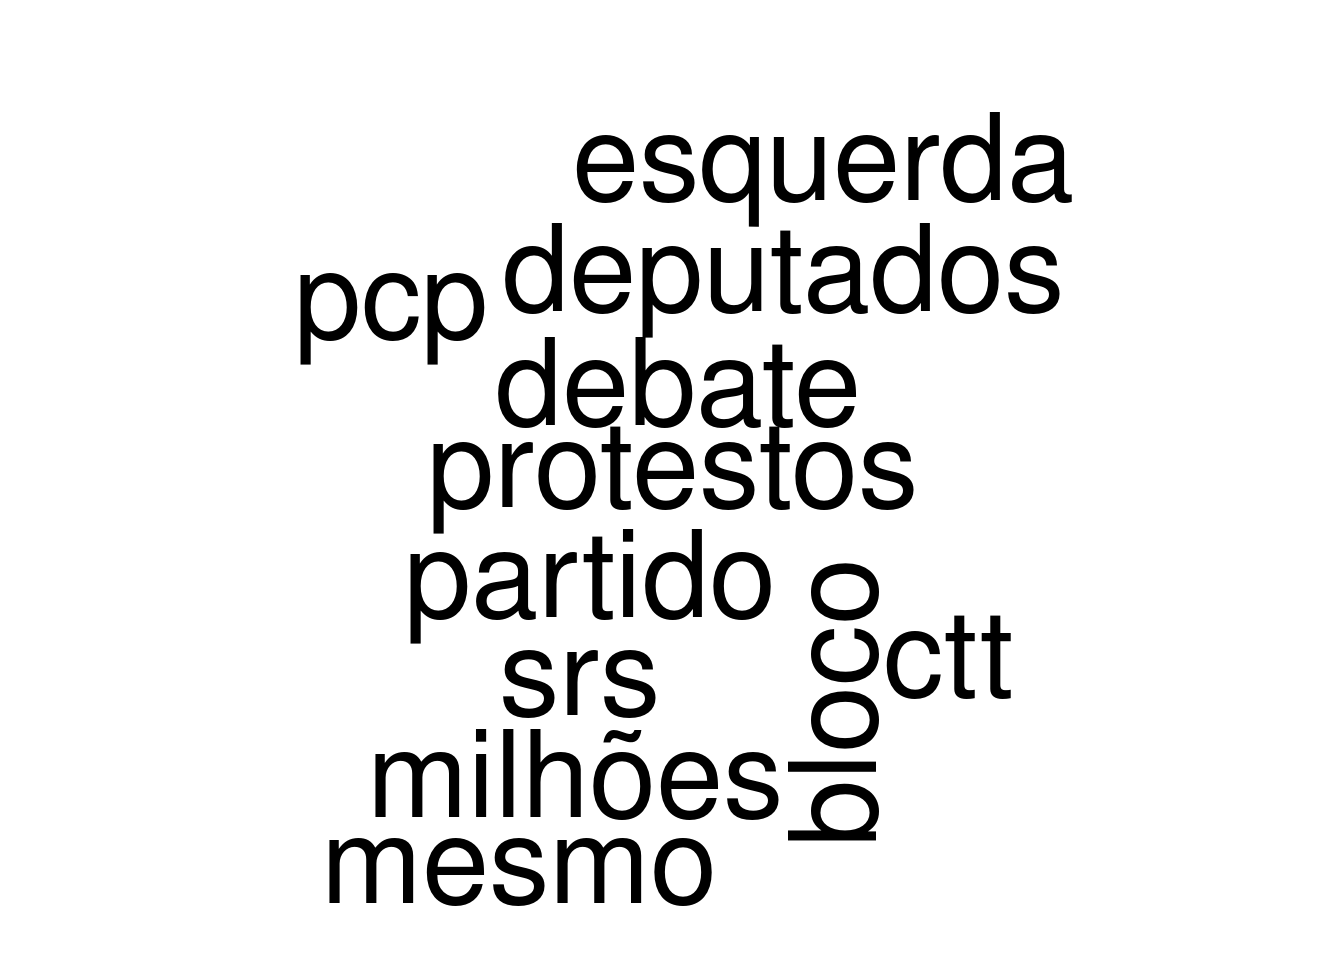
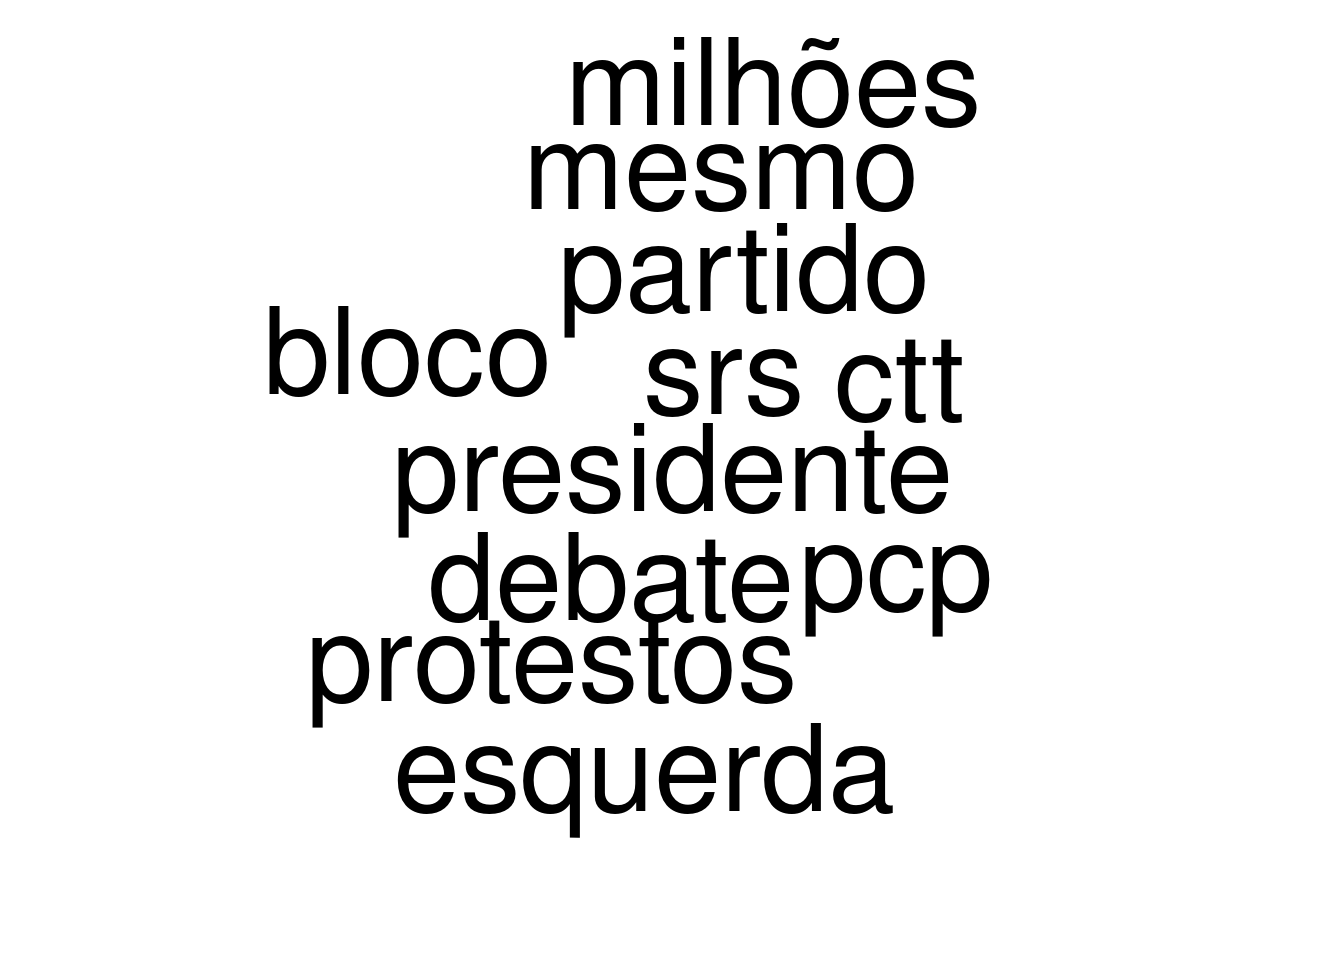
updated docs

Changed region(s): [[0.1875, 0.0312, 0.8125, 0.9688]]

diff --git a/docs/index.html b/docs/index.html
@@ -347,32 +347,32 @@ code span.wa { color: #60a0b0; font-weight: bold; font-style: italic; } /* Warni
 <a class="sourceLine" id="cb18-3" data-line-number="3"><span class="st">    </span>echarts4r<span class="op">::</span><span class="kw">e_charts</span>() <span class="op">%&gt;%</span><span class="st"> </span></a>
 <a class="sourceLine" id="cb18-4" data-line-number="4"><span class="st">    </span>echarts4r<span class="op">::</span><span class="kw">e_cloud</span>(word, freq, color, <span class="dt">shape =</span> <span class="st">&quot;circle&quot;</span>, <span class="dt">sizeRange =</span> <span class="kw">c</span>(<span class="dv">3</span>, <span class="dv">15</span>)) <span class="op">%&gt;%</span><span class="st"> </span></a>
 <a class="sourceLine" id="cb18-5" data-line-number="5"><span class="st">    </span>echarts4r<span class="op">::</span><span class="kw">e_title</span>(<span class="st">&quot;Wordcloud&quot;</span>, <span class="st">&quot;Random strings&quot;</span>)</a></code></pre></div>
-<div id="htmlwidget-c0e16800705c642e3382" style="width:100%;height:500px;" class="echarts4r html-widget"></div>
-<script type="application/json" data-for="htmlwidget-c0e16800705c642e3382">{"x":{"theme":"","tl":false,"draw":true,"renderer":"canvas","events":[],"buttons":[],"opts":{"series":[{"type":"wordCloud","data":[{"value":16.0799351307671,"name":"esquerda.e.o.pcp","textStyle":{"normal":{"color":"#F6EFA6"}}},{"value":15.6465856891365,"name":"socialista.para.fazer.o.mesmo","textStyle":{"normal":{"color":"#DD927A"}}},{"value":15.5192443726686,"name":"pcp.e.de.deputados","textStyle":{"normal":{"color":"#D67C6F"}}},{"value":15.0775450805969,"name":"bloco.de.esquerda","textStyle":{"normal":{"color":"#C0464D"}}},{"value":15.0774515014759,"name":"presidente","textStyle":{"normal":{"color":"#C0464D"}}},{"value":15.0759623968629,"name":"partido.socialista","textStyle":{"normal":{"color":"#C0464D"}}},{"value":15.0748359377689,"name":"mesmo.governo.socialista","textStyle":{"normal":{"color":"#C0454D"}}},{"value":15.074642059345,"name":"deputados","textStyle":{"normal":{"color":"#C0454D"}}},{"value":15.0718260437238,"name":"deputado.joão.cotrim.de.figueiredo","textStyle":{"normal":{"color":"#BF454D"}}},{"value":15.0716122544258,"name":"bloco","textStyle":{"normal":{"color":"#BF454C"}}},{"value":15.0716122544258,"name":"esquerda","textStyle":{"normal":{"color":"#BF454C"}}},{"value":15.0707271154457,"name":"ctt","textStyle":{"normal":{"color":"#BF454C"}}},{"value":15.0705569190084,"name":"protestos","textStyle":{"normal":{"color":"#BF454C"}}},{"value":15.0702078911475,"name":"pcp","textStyle":{"normal":{"color":"#BF454C"}}},{"value":15.0696226817531,"name":"partido","textStyle":{"normal":{"color":"#BF454C"}}},{"value":15.0686622537548,"name":"debate","textStyle":{"normal":{"color":"#BF454C"}}},{"value":15.0682339911465,"name":"mesmo","textStyle":{"normal":{"color":"#BF444C"}}},{"value":15.0666393050612,"name":"srs","textStyle":{"normal":{"color":"#BF444C"}}},{"value":15.0664701143982,"name":"milhões","textStyle":{"normal":{"color":"#BF444C"}}},{"value":15.0648551956363,"name":"joão.azevedo.castro","textStyle":{"normal":{"color":"#BF444C"}}}],"shape":"circle","sizeRange":[3,15]}],"title":[{"text":"Wordcloud","subtext":"Random strings"}]},"dispose":true},"evals":[],"jsHooks":[]}</script>
+<div id="htmlwidget-233aeeed1d04ea63dd73" style="width:100%;height:500px;" class="echarts4r html-widget"></div>
+<script type="application/json" data-for="htmlwidget-233aeeed1d04ea63dd73">{"x":{"theme":"","tl":false,"draw":true,"renderer":"canvas","events":[],"buttons":[],"opts":{"series":[{"type":"wordCloud","data":[{"value":16.0799351307671,"name":"esquerda.e.o.pcp","textStyle":{"normal":{"color":"#F6EFA6"}}},{"value":15.6465856891365,"name":"socialista.para.fazer.o.mesmo","textStyle":{"normal":{"color":"#DD927A"}}},{"value":15.5192443726686,"name":"pcp.e.de.deputados","textStyle":{"normal":{"color":"#D67C6F"}}},{"value":15.0775450805969,"name":"bloco.de.esquerda","textStyle":{"normal":{"color":"#C0464D"}}},{"value":15.0774515014759,"name":"presidente","textStyle":{"normal":{"color":"#C0464D"}}},{"value":15.0759623968629,"name":"partido.socialista","textStyle":{"normal":{"color":"#C0464D"}}},{"value":15.0748359377689,"name":"mesmo.governo.socialista","textStyle":{"normal":{"color":"#C0454D"}}},{"value":15.074642059345,"name":"deputados","textStyle":{"normal":{"color":"#C0454D"}}},{"value":15.0718260437238,"name":"deputado.joão.cotrim.de.figueiredo","textStyle":{"normal":{"color":"#BF454D"}}},{"value":15.0716122544258,"name":"bloco","textStyle":{"normal":{"color":"#BF454C"}}},{"value":15.0716122544258,"name":"esquerda","textStyle":{"normal":{"color":"#BF454C"}}},{"value":15.0707271154457,"name":"ctt","textStyle":{"normal":{"color":"#BF454C"}}},{"value":15.0705569190084,"name":"protestos","textStyle":{"normal":{"color":"#BF454C"}}},{"value":15.0702078911475,"name":"pcp","textStyle":{"normal":{"color":"#BF454C"}}},{"value":15.0696226817531,"name":"partido","textStyle":{"normal":{"color":"#BF454C"}}},{"value":15.0686622537548,"name":"debate","textStyle":{"normal":{"color":"#BF454C"}}},{"value":15.0682339911465,"name":"mesmo","textStyle":{"normal":{"color":"#BF444C"}}},{"value":15.0666393050612,"name":"srs","textStyle":{"normal":{"color":"#BF444C"}}},{"value":15.0664701143982,"name":"milhões","textStyle":{"normal":{"color":"#BF444C"}}},{"value":15.0648551956363,"name":"joão.azevedo.castro","textStyle":{"normal":{"color":"#BF444C"}}}],"shape":"circle","sizeRange":[3,15]}],"title":[{"text":"Wordcloud","subtext":"Random strings"}]},"dispose":true},"evals":[],"jsHooks":[]}</script>
 <div class="sourceCode" id="cb19"><pre class="sourceCode r"><code class="sourceCode r"><a class="sourceLine" id="cb19-1" data-line-number="1">d &lt;-<span class="st"> </span><span class="kw">data.frame</span>(<span class="dt">word =</span> <span class="kw">rownames</span>(df_keywords), <span class="dt">freq =</span> df_keywords<span class="op">$</span>freq)</a>
 <a class="sourceLine" id="cb19-2" data-line-number="2">wordcloud2<span class="op">::</span><span class="kw">wordcloud2</span>(d)</a></code></pre></div>
-<div id="htmlwidget-2c7d56c5c94109e36e2e" style="width:672px;height:480px;" class="wordcloud2 html-widget"></div>
-<script type="application/json" data-for="htmlwidget-2c7d56c5c94109e36e2e">{"x":{"word":["esquerda.e.o.pcp","socialista.para.fazer.o.mesmo","pcp.e.de.deputados","bloco.de.esquerda","presidente","partido.socialista","mesmo.governo.socialista","deputados","deputado.joão.cotrim.de.figueiredo","bloco","esquerda","ctt","protestos","pcp","partido","debate","mesmo","srs","milhões","joão.azevedo.castro"],"freq":[16.0799351307671,15.6465856891365,15.5192443726686,15.0775450805969,15.0774515014759,15.0759623968629,15.0748359377689,15.074642059345,15.0718260437238,15.0716122544258,15.0716122544258,15.0707271154457,15.0705569190084,15.0702078911475,15.0696226817531,15.0686622537548,15.0682339911465,15.0666393050612,15.0664701143982,15.0648551956363],"fontFamily":"Segoe UI","fontWeight":"bold","color":"random-dark","minSize":0,"weightFactor":11.1940750093942,"backgroundColor":"white","gridSize":0,"minRotation":-0.785398163397448,"maxRotation":0.785398163397448,"shuffle":true,"rotateRatio":0.4,"shape":"circle","ellipticity":0.65,"figBase64":null,"hover":null},"evals":[],"jsHooks":{"render":[{"code":"function(el,x){\n                        console.log(123);\n                        if(!iii){\n                          window.location.reload();\n                          iii = False;\n\n                        }\n  }","data":null}]}}</script>
+<div id="htmlwidget-15841d9400d29c44086e" style="width:672px;height:480px;" class="wordcloud2 html-widget"></div>
+<script type="application/json" data-for="htmlwidget-15841d9400d29c44086e">{"x":{"word":["esquerda.e.o.pcp","socialista.para.fazer.o.mesmo","pcp.e.de.deputados","bloco.de.esquerda","presidente","partido.socialista","mesmo.governo.socialista","deputados","deputado.joão.cotrim.de.figueiredo","bloco","esquerda","ctt","protestos","pcp","partido","debate","mesmo","srs","milhões","joão.azevedo.castro"],"freq":[16.0799351307671,15.6465856891365,15.5192443726686,15.0775450805969,15.0774515014759,15.0759623968629,15.0748359377689,15.074642059345,15.0718260437238,15.0716122544258,15.0716122544258,15.0707271154457,15.0705569190084,15.0702078911475,15.0696226817531,15.0686622537548,15.0682339911465,15.0666393050612,15.0664701143982,15.0648551956363],"fontFamily":"Segoe UI","fontWeight":"bold","color":"random-dark","minSize":0,"weightFactor":11.1940750093942,"backgroundColor":"white","gridSize":0,"minRotation":-0.785398163397448,"maxRotation":0.785398163397448,"shuffle":true,"rotateRatio":0.4,"shape":"circle","ellipticity":0.65,"figBase64":null,"hover":null},"evals":[],"jsHooks":{"render":[{"code":"function(el,x){\n                        console.log(123);\n                        if(!iii){\n                          window.location.reload();\n                          iii = False;\n\n                        }\n  }","data":null}]}}</script>
 <div class="sourceCode" id="cb20"><pre class="sourceCode r"><code class="sourceCode r"><a class="sourceLine" id="cb20-1" data-line-number="1">wordcloud<span class="op">::</span><span class="kw">wordcloud</span>(df_keywords<span class="op">$</span>word, df_keywords<span class="op">$</span>freq)</a></code></pre></div>
+<pre><code>## Warning in wordcloud::wordcloud(df_keywords$word, df_keywords$freq):
+## joão.azevedo.castro could not be fit on page. It will not be plotted.</code></pre>
+<pre><code>## Warning in wordcloud::wordcloud(df_keywords$word, df_keywords$freq):
+## esquerda.e.o.pcp could not be fit on page. It will not be plotted.</code></pre>
+<pre><code>## Warning in wordcloud::wordcloud(df_keywords$word, df_keywords$freq):
+## socialista.para.fazer.o.mesmo could not be fit on page. It will not be plotted.</code></pre>
+<pre><code>## Warning in wordcloud::wordcloud(df_keywords$word, df_keywords$freq):
+## mesmo.governo.socialista could not be fit on page. It will not be plotted.</code></pre>
+<pre><code>## Warning in wordcloud::wordcloud(df_keywords$word, df_keywords$freq):
+## partido.socialista could not be fit on page. It will not be plotted.</code></pre>
+<pre><code>## Warning in wordcloud::wordcloud(df_keywords$word, df_keywords$freq): deputados
+## could not be fit on page. It will not be plotted.</code></pre>
 <pre><code>## Warning in wordcloud::wordcloud(df_keywords$word, df_keywords$freq):
 ## deputado.joão.cotrim.de.figueiredo could not be fit on page. It will not be
 ## plotted.</code></pre>
 <pre><code>## Warning in wordcloud::wordcloud(df_keywords$word, df_keywords$freq):
-## partido.socialista could not be fit on page. It will not be plotted.</code></pre>
-<pre><code>## Warning in wordcloud::wordcloud(df_keywords$word, df_keywords$freq):
 ## pcp.e.de.deputados could not be fit on page. It will not be plotted.</code></pre>
 <pre><code>## Warning in wordcloud::wordcloud(df_keywords$word, df_keywords$freq):
-## esquerda.e.o.pcp could not be fit on page. It will not be plotted.</code></pre>
-<pre><code>## Warning in wordcloud::wordcloud(df_keywords$word, df_keywords$freq):
-## mesmo.governo.socialista could not be fit on page. It will not be plotted.</code></pre>
-<pre><code>## Warning in wordcloud::wordcloud(df_keywords$word, df_keywords$freq):
 ## bloco.de.esquerda could not be fit on page. It will not be plotted.</code></pre>
-<pre><code>## Warning in wordcloud::wordcloud(df_keywords$word, df_keywords$freq): presidente
-## could not be fit on page. It will not be plotted.</code></pre>
-<pre><code>## Warning in wordcloud::wordcloud(df_keywords$word, df_keywords$freq):
-## socialista.para.fazer.o.mesmo could not be fit on page. It will not be plotted.</code></pre>
-<pre><code>## Warning in wordcloud::wordcloud(df_keywords$word, df_keywords$freq):
-## joão.azevedo.castro could not be fit on page. It will not be plotted.</code></pre>
 <p><img src="_main_files/figure-html/unnamed-chunk-15-1.png" width="672" /></p>
 <div class="sourceCode" id="cb30"><pre class="sourceCode r"><code class="sourceCode r"><a class="sourceLine" id="cb30-1" data-line-number="1">generate_wordcloud_from_intervinient &lt;-<span class="st"> </span><span class="cf">function</span>(intervinient, <span class="dt">ngram=</span><span class="dv">3</span>){</a>
 <a class="sourceLine" id="cb30-2" data-line-number="2">    df_keywords =<span class="st"> </span><span class="kw">as.data.frame</span>(<span class="kw">t</span>(<span class="kw">as.data.frame</span>(reticulate<span class="op">::</span>py<span class="op">$</span><span class="kw">generate_keywords_from</span>(intervinient, <span class="dt">ngram=</span><span class="kw">as.integer</span>(ngram)))))</a>
@@ -385,6 +385,30 @@ code span.wa { color: #60a0b0; font-weight: bold; font-style: italic; } /* Warni
 <a class="sourceLine" id="cb30-9" data-line-number="9">    d &lt;-<span class="st"> </span><span class="kw">data.frame</span>(<span class="dt">word =</span> <span class="kw">rownames</span>(df_keywords), <span class="dt">freq =</span> df_keywords<span class="op">$</span>freq)</a>
 <a class="sourceLine" id="cb30-10" data-line-number="10">    <span class="kw">return</span>(wordcloud2<span class="op">::</span><span class="kw">wordcloud2</span>(d,<span class="dt">size =</span> <span class="fl">.3</span>))</a>
 <a class="sourceLine" id="cb30-11" data-line-number="11">}</a></code></pre></div>
+<div class="sourceCode" id="cb31"><pre class="sourceCode r"><code class="sourceCode r"><a class="sourceLine" id="cb31-1" data-line-number="1"><span class="kw">generate_wordcloud_from_intervinient</span>(<span class="st">&quot;O Sr. André Ventura (CH)&quot;</span>)</a></code></pre></div>
+<pre><code>##                               freq                     word
+## bloco.de.esquerda        0.3309447        bloco.de.esquerda
+## presidente               0.3300373               presidente
+## partido.socialista       0.3152458       partido.socialista
+## mesmo.governo.socialista 0.3035781 mesmo.governo.socialista
+## deputados                0.3015244                deputados
+## bloco                    0.2673890                    bloco
+## esquerda                 0.2673890                 esquerda
+## ctt                      0.2565607                      ctt
+## protestos                0.2544258                protestos
+## pcp                      0.2499906                      pcp
+## deputado.joão.ferreira   0.2449224   deputado.joão.ferreira
+## partido                  0.2423723                  partido
+## debate                   0.2293213                   debate
+## mesmo                    0.2232560                    mesmo
+## srs                      0.1990523                      srs
+## milhões                  0.1963093                  milhões
+## joão.azevedo.castro      0.1678875      joão.azevedo.castro
+## união.europeia           0.1370312           união.europeia
+## governo                  0.0600930                  governo
+## portugueses              0.0000000              portugueses</code></pre>
+<div id="htmlwidget-a45ac4d2114fbe5c8021" style="width:672px;height:480px;" class="wordcloud2 html-widget"></div>
+<script type="application/json" data-for="htmlwidget-a45ac4d2114fbe5c8021">{"x":{"word":["bloco.de.esquerda","presidente","partido.socialista","mesmo.governo.socialista","deputados","bloco","esquerda","ctt","protestos","pcp","deputado.joão.ferreira","partido","debate","mesmo","srs","milhões","joão.azevedo.castro","união.europeia","governo","portugueses"],"freq":[0.330944722210371,0.330037265005675,0.3152457802367,0.303578081973857,0.301524380208725,0.26738895068752,0.26738895068752,0.256560689157743,0.254425787501664,0.249990643899014,0.244922373183677,0.242372261296478,0.229321325400331,0.223255998915869,0.199052260815704,0.196309305330236,0.167887521040202,0.137031190770163,0.0600930000436213,0],"fontFamily":"Segoe UI","fontWeight":"bold","color":"random-dark","minSize":0,"weightFactor":163.169243610641,"backgroundColor":"white","gridSize":0,"minRotation":-0.785398163397448,"maxRotation":0.785398163397448,"shuffle":true,"rotateRatio":0.4,"shape":"circle","ellipticity":0.65,"figBase64":null,"hover":null},"evals":[],"jsHooks":{"render":[{"code":"function(el,x){\n                        console.log(123);\n                        if(!iii){\n                          window.location.reload();\n                          iii = False;\n\n                        }\n  }","data":null}]}}</script>
 
 </div>
 </div>
